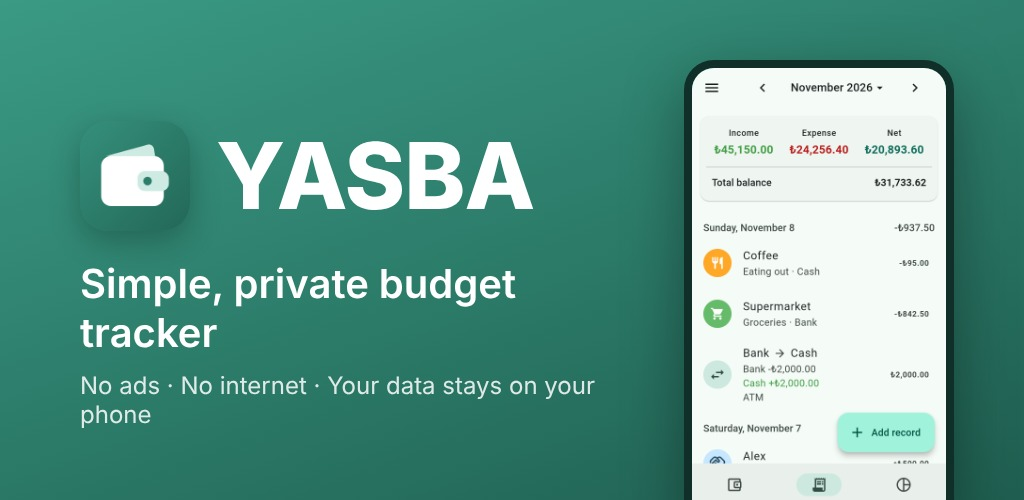
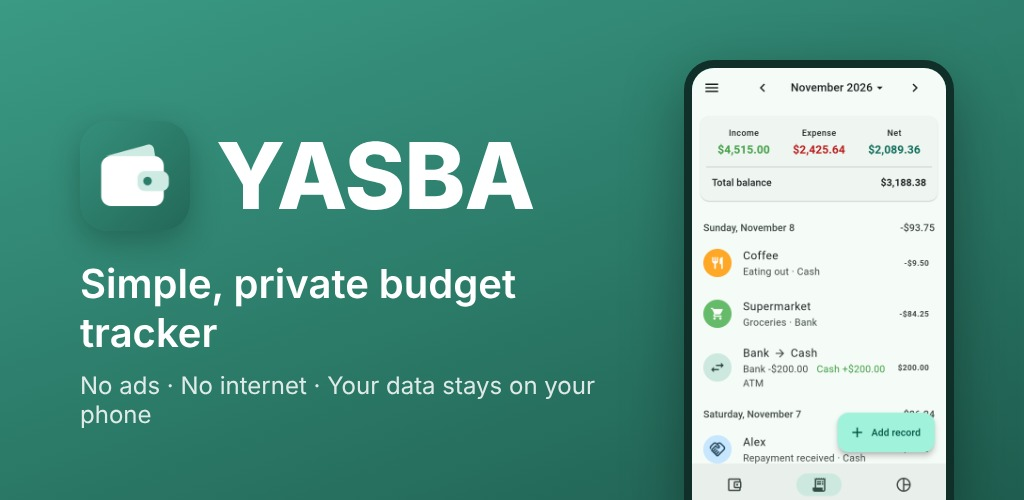
English store images in dollars

diff --git a/test_screens/screens_test.dart b/test_screens/screens_test.dart
@@ -46,6 +46,8 @@ Future<void> seed(AppDatabase db, String lang) async {
   final now = DateTime.now();
   DateTime d(int day, [int h = 12]) => DateTime(now.year, now.month, day, h);
   final today = now.day;
+  // English shots are in dollars, with amounts to match.
+  int m(int cents) => lang == 'tr' ? cents : (cents / 10).round();
   final rows = <(String, int, int, int)>[
     // title, cents, day offset (days before today), category id
     (
@@ -93,7 +95,7 @@ Future<void> seed(AppDatabase db, String lang) async {
       name: lang == 'tr' ? 'Banka' : 'Bank',
       color: 0xFF1E88E5,
       icon: 'bank',
-      initialBalance: 1250000,
+      initialBalance: m(1250000),
       sortOrder: 1,
     ),
   );
@@ -102,7 +104,7 @@ Future<void> seed(AppDatabase db, String lang) async {
       name: lang == 'tr' ? 'Kredi kartı' : 'Credit card',
       color: 0xFF5C6BC0,
       icon: 'card',
-      initialBalance: -340000,
+      initialBalance: m(-340000),
       sortOrder: 2,
     ),
   );
@@ -112,7 +114,7 @@ Future<void> seed(AppDatabase db, String lang) async {
     await db.insertRecord(
       Record(
         title: t,
-        amount: c,
+        amount: m(c),
         date: d(day, 18 - off),
         categoryId: cat,
         walletId: (i++).isEven ? bank : cash,
@@ -123,7 +125,7 @@ Future<void> seed(AppDatabase db, String lang) async {
     Transfer(
       fromWalletId: bank,
       toWalletId: cash,
-      amount: 200000,
+      amount: m(200000),
       date: d(today.clamp(1, 28), 10),
       note: lang == 'tr' ? 'ATM' : 'ATM',
     ),
@@ -132,7 +134,7 @@ Future<void> seed(AppDatabase db, String lang) async {
     Debt(
       person: lang == 'tr' ? 'Ali' : 'Alex',
       direction: DebtDirection.lent,
-      amount: 150000,
+      amount: m(150000),
       date: d((today - 6).clamp(1, 28)),
       dueDate: DateTime(now.year, now.month + 1, 1),
       walletId: bank,
@@ -141,7 +143,7 @@ Future<void> seed(AppDatabase db, String lang) async {
   await db.insertDebtPayment(
     DebtPayment(
       debtId: lent,
-      amount: 50000,
+      amount: m(50000),
       date: d((today - 1).clamp(1, 28), 20),
       walletId: cash,
     ),
@@ -150,7 +152,7 @@ Future<void> seed(AppDatabase db, String lang) async {
     Debt(
       person: lang == 'tr' ? 'Ayşe' : 'Emma',
       direction: DebtDirection.borrowed,
-      amount: 300000,
+      amount: m(300000),
       date: DateTime(now.year, now.month - 1, 12),
       dueDate: DateTime(now.year, now.month, 1),
       note: lang == 'tr' ? 'Tatil' : 'Holiday',
@@ -161,7 +163,7 @@ Future<void> seed(AppDatabase db, String lang) async {
     Debt(
       person: lang == 'tr' ? 'Mert' : 'Sam',
       direction: DebtDirection.lent,
-      amount: 20000,
+      amount: m(20000),
       date: DateTime(now.year, now.month - 1, 3),
       closed: true,
       closedAt: d((today - 2).clamp(1, 28), 11),
@@ -171,7 +173,7 @@ Future<void> seed(AppDatabase db, String lang) async {
     Debt(
       person: lang == 'tr' ? 'Zeynep' : 'Mia',
       direction: DebtDirection.borrowed,
-      amount: 40000,
+      amount: m(40000),
       date: DateTime(now.year, now.month - 1, 20),
       walletId: cash,
       closed: true,
@@ -181,7 +183,7 @@ Future<void> seed(AppDatabase db, String lang) async {
   await db.insertDebtPayment(
     DebtPayment(
       debtId: kept,
-      amount: 25000,
+      amount: m(25000),
       date: DateTime(now.year, now.month - 1, 28),
       walletId: cash,
     ),
@@ -189,7 +191,7 @@ Future<void> seed(AppDatabase db, String lang) async {
   await db.insertRecurringRule(
     RecurringRule(
       title: lang == 'tr' ? 'Maaş' : 'Salary',
-      amount: 4500000,
+      amount: m(4500000),
       categoryId: id('Salary', 'Maaş'),
       startDate: DateTime(now.year, now.month, 1, 9),
     ),
@@ -197,7 +199,7 @@ Future<void> seed(AppDatabase db, String lang) async {
   await db.insertRecurringRule(
     RecurringRule(
       title: lang == 'tr' ? 'Kira' : 'Rent',
-      amount: 1800000,
+      amount: m(1800000),
       categoryId: id('Rent', 'Kira'),
       startDate: DateTime(now.year, now.month, 1, 10),
     ),
@@ -205,7 +207,7 @@ Future<void> seed(AppDatabase db, String lang) async {
   await db.insertRecurringRule(
     RecurringRule(
       title: 'Netflix',
-      amount: 22999,
+      amount: lang == 'tr' ? 22999 : 1549,
       categoryId: id('Entertainment', 'Eğlence'),
       startDate: DateTime(now.year, now.month - 2, 15),
     ),
@@ -239,7 +241,7 @@ Future<AppState> start(WidgetTester tester, String lang) async {
       language: lang,
     );
     await seed(db, lang);
-    if (lang == 'en') await db.setSetting('currency', '₺');
+    if (lang == 'en') await db.setSetting('currency', '\$');
     state = AppState(db);
     await state.load();
     await state.setLanguage(lang);
@@ -296,6 +298,45 @@ void main() {
   });
 
   for (final lang in ['en', 'tr']) {
+    testWidgets('welcome $lang', (tester) async {
+      late AppState state;
+      await tester.runAsync(() async {
+        final dir = await Directory.systemTemp.createTemp('welcome');
+        final db = await AppDatabase.open(
+          factory: databaseFactoryFfiNoIsolate,
+          path: '${dir.path}/$lang.db',
+          language: lang,
+        );
+        state = AppState(db);
+        await state.load();
+        await state.setLanguage(lang);
+        if (lang == 'en') await state.setCurrency('\$');
+      });
+      final height =
+          double.tryParse(Platform.environment['SHOT_HEIGHT'] ?? '') ?? 2340;
+      tester.view.physicalSize = Size(1080, height);
+      tester.view.devicePixelRatio = 3;
+      await tester.pumpWidget(
+        RepaintBoundary(
+          key: const Key('root'),
+          child: YasbaApp(state: state),
+        ),
+      );
+      for (final (i, name) in [
+        '0a_welcome',
+        '0b_balance',
+        '0c_ready',
+      ].indexed) {
+        if (i > 0) {
+          await tester.tap(find.byType(FilledButton));
+          await tester.pumpAndSettle();
+        }
+        await shot(tester, '${lang}_$name');
+      }
+      // Restore the default checked by the test framework.
+      debugDisableShadows = true;
+    });
+
     testWidgets('screens $lang', (tester) async {
       final state = await start(tester, lang);
       await shot(tester, '${lang}_1_records');
